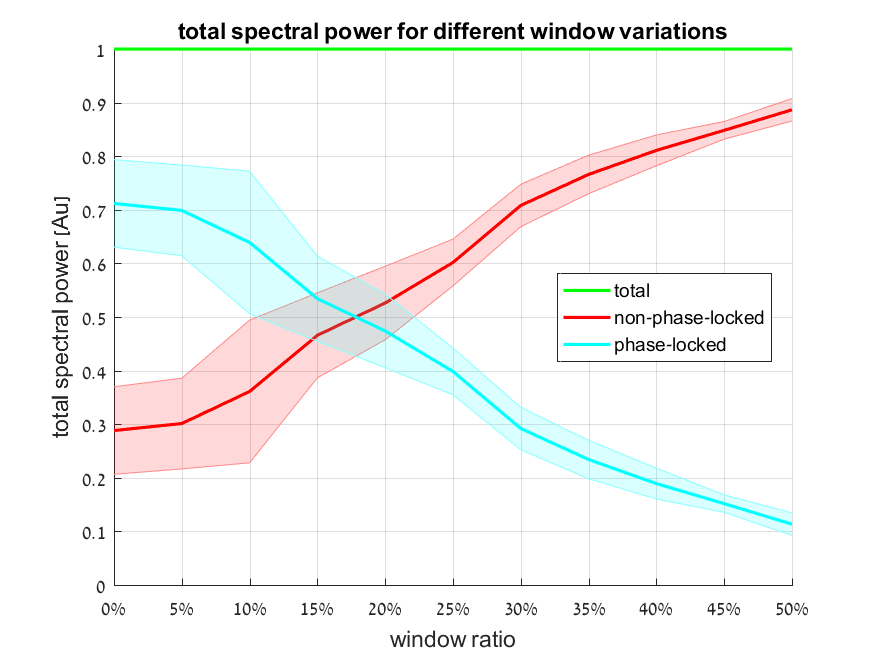
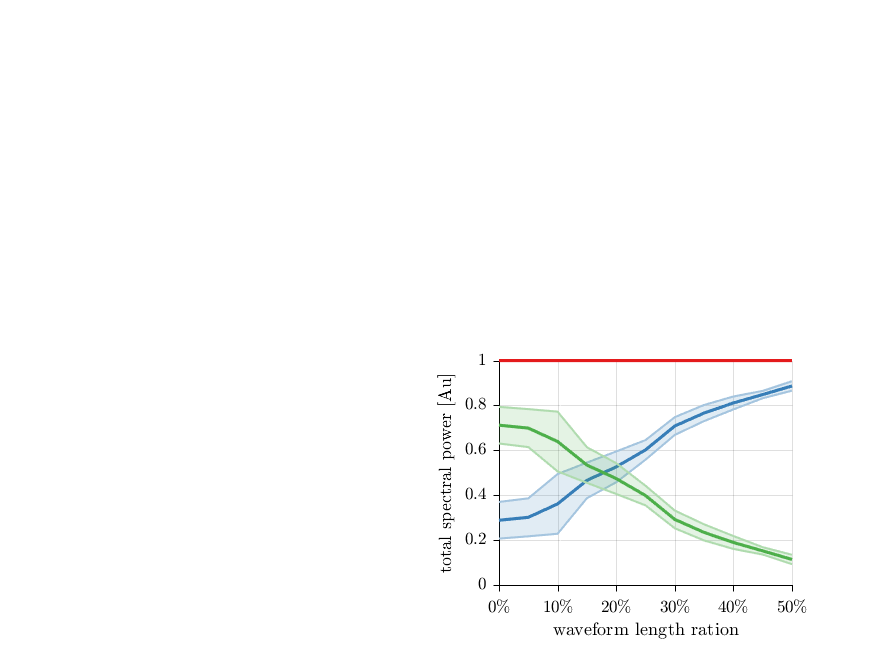
update colors of jitter power and window size

diff --git a/Generate_final_images/FigA1/FigA1_Show.m b/Generate_final_images/FigA1/FigA1_Show.m
@@ -9,9 +9,14 @@ tot_orig_n = tot_orig./base_factor;
 tot_sub_n = tot_sub./base_factor;
 tot_diff_n = tot_diff./base_factor;
 
-% plt_colors = {'b','g','r','c'};
-figure
 clear H
+
+figure
+subplot(2,2,4)
+
+% plt_colors = {'b','g','r','c'};
+hold on
+
 % H(1) = stdshade(tot_erp_n, 0.2, 'b', ratio_windows, 3);
 % H(2) = stdshade(tot_orig_n, 0.2, 'g', ratio_windows, 3);
 % H(3) = stdshade(tot_sub_n, 0.2, 'r', ratio_windows, 3);
@@ -19,21 +24,27 @@ clear H
 ci_alpha = 0.95;
 ci = @(data)(output(@()ttest(data,0,'alpha',1-ci_alpha),3));
 
-hold on
+colors = cbrewer('qual', 'Set1', 3);
+
+% H(1) = shadedErrorBar(ratio_jitters, tot_erp_n, {@mean, @std}, {'-b', 'LineWidth', 1.5}, 1);
+H(2) = shadedErrorBar(ratio_windows*100, tot_orig_n, {@mean, ci, true}, {'-', 'Color',colors(1,:),'LineWidth', 1.5}, 1);
+H(3) = shadedErrorBar(ratio_windows*100, tot_sub_n, {@mean, ci, true}, {'-', 'Color',colors(2,:), 'LineWidth', 1.5}, 1);
+H(4) = shadedErrorBar(ratio_windows*100, tot_diff_n, {@mean, ci, true}, {'-', 'Color',colors(3 ,:), 'LineWidth', 1.5}, 1);
+
 % H(1) = shadedErrorBar(jitters, tot_erp_n, {@mean, std}, {'-b', 'LineWidth', 1.5}, 1);
-H(2) = shadedErrorBar(ratio_windows*100, tot_orig_n, {@mean, ci, true}, {'-g', 'LineWidth', 1.5}, 1);
-H(3) = shadedErrorBar(ratio_windows*100, tot_sub_n, {@mean, ci, true}, {'-r', 'LineWidth', 1.5}, 1);
-H(4) = shadedErrorBar(ratio_windows*100, tot_diff_n, {@mean, ci, true}, {'-c', 'LineWidth', 1.5}, 1);
+% H(2) = shadedErrorBar(ratio_windows*100, tot_orig_n, {@mean, ci, true}, {'-g', 'LineWidth', 1.5}, 1);
+% H(3) = shadedErrorBar(ratio_windows*100, tot_sub_n, {@mean, ci, true}, {'-r', 'LineWidth', 1.5}, 1);
+% H(4) = shadedErrorBar(ratio_windows*100, tot_diff_n, {@mean, ci, true}, {'-c', 'LineWidth', 1.5}, 1);
 
 % title 'total spectral power for different 12 repetitions with 100 trials each'
 % title 'total spectral power for different window variations'
 
-xlabel 'window ratio'
+xlabel 'waveform length ration'
 xtickformat('%.2g\\\%')
 ylabel 'total spectral power [Au]'
 % strlegend = {'ERP', 'total', 'non-phased-locked', 'phase-locked'};
 strlegend = {'total', 'non-phase-locked', 'phase-locked'};
-legend([H.mainLine], strlegend, 'Location', 'East')
+% legend([H.mainLine], strlegend, 'Location', 'BestOutside')
 
 grid on
 

diff --git a/Generate_final_images/Fig4/Fig4_Show.m b/Generate_final_images/Fig4/Fig4_Show.m
@@ -21,10 +21,13 @@ ci_alpha = 0.95;
 ci = @(data)(output(@()ttest(data,0,'alpha',1-ci_alpha),3));
 
 hold on
+
+colors = cbrewer('qual', 'Set1', 3);
+
 % H(1) = shadedErrorBar(ratio_jitters, tot_erp_n, {@mean, @std}, {'-b', 'LineWidth', 1.5}, 1);
-H(2) = shadedErrorBar(ratio_jitters, tot_orig_n, {@mean, ci, true}, {'-g', 'LineWidth', 1.5}, 1);
-H(3) = shadedErrorBar(ratio_jitters, tot_sub_n, {@mean, ci, true}, {'-r', 'LineWidth', 1.5}, 1);
-H(4) = shadedErrorBar(ratio_jitters, tot_diff_n, {@mean, ci, true}, {'-c', 'LineWidth', 1.5}, 1);
+H(2) = shadedErrorBar(ratio_jitters, tot_orig_n, {@mean, ci, true}, {'-', 'Color',colors(1,:),'LineWidth', 1.5}, 1);
+H(3) = shadedErrorBar(ratio_jitters, tot_sub_n, {@mean, ci, true}, {'-', 'Color',colors(2,:), 'LineWidth', 1.5}, 1);
+H(4) = shadedErrorBar(ratio_jitters, tot_diff_n, {@mean, ci, true}, {'-', 'Color',colors(3 ,:), 'LineWidth', 1.5}, 1);
 
 % title 'total spectral power for different 12 repetitions with 100 trials each'
 % title 'total spectral power for different jitter sizes'
